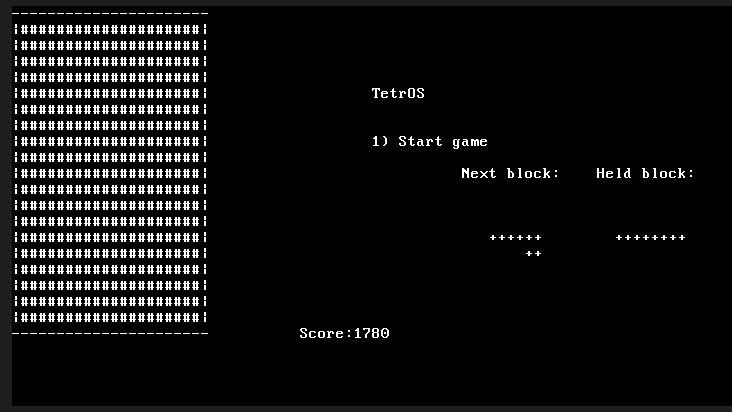
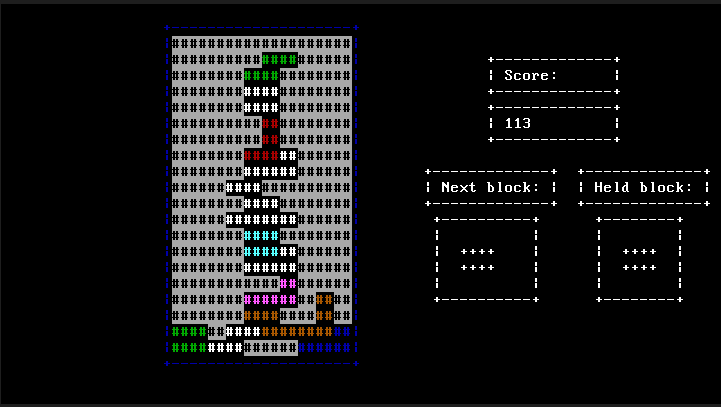
Updated images in README

diff --git a/README.md b/README.md
@@ -2,9 +2,9 @@
 
 TetrOS is a simple, educational OS that boots directly on x86 hardware or in a virtual machine and runs a playable version of Tetris with all known features.
 
-| Playing | Game over |
-|---------|--------|
-| ![Playing Tetris](screenshots/playing.png) | ![Losing Tetris](screenshots/losing.png) |
+| Main Menu | Playing | Game over |
+|---------|---------|--------|
+|![Main menu](screenshots/main_menu.png)| ![Playing Tetris](screenshots/playing.png) | ![Losing Tetris](screenshots/losing.png) |
 
 ## Overview
 